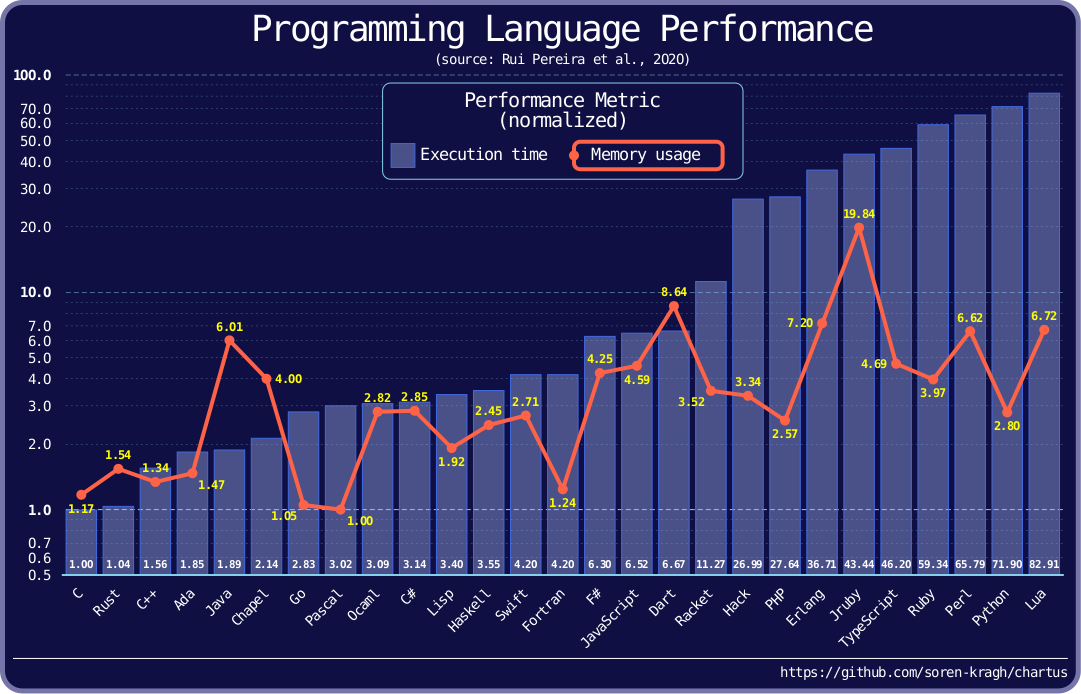
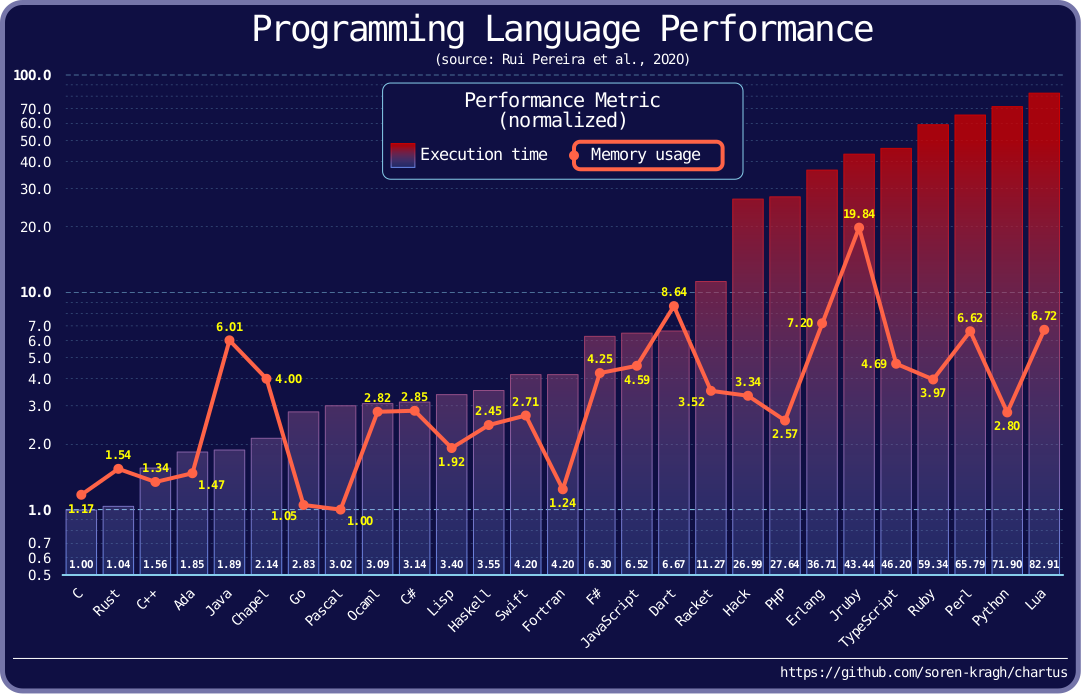
Update documentation

Changed region(s): [[0.0611, 0.121, 1.0, 0.8473], [0.3358, 0.1816, 0.3969, 0.2421]]

diff --git a/README.md b/README.md
@@ -209,10 +209,15 @@ Series.Data :
 # FootnoteSize: 1.0
 # LetterSpacing: 1.8 1.1 0.8
 # ZeroToO: Off
-# GridPadding: 0 12
+# GridPadding: 0 50
 # NewChartInGrid: 0 0 3 0 Center Bottom
 # NewChartInChart: 0 0 Bottom Right
 # ChartPadding: -1 0
+# ChartPaddingX: 12
+# ChartPaddingY: 12
+# ChartFrame: 5 8 0
+# ChartFrameColor: red
+# ChartCanvasColor: white
 # ChartArea: 1000 600
 # ChartBox: On
 # ChartAreaColor: dimgray
@@ -287,9 +292,9 @@ Series.Data :
 # MacroEnd: MyMacro
 # Macro: MyMacro
 #
+# @Layer: Top
 # @PointCoor: Off
 # @Axis: Y1
-# @Layer: Top
 # @LineWidth: Width
 # @LineDash: Dash [Hole]
 # @LineColor: black
@@ -313,6 +318,11 @@ Series.Data :
 # @ArrowWidth: 0
 # @Context: {
 # @Context: }
+#
+# @@Layer: Top
+# @@Axis: 0:Y2
+# @@...
+#
 ```
 
 ## Full Documentation
@@ -329,9 +339,8 @@ Series.Data :
 # The UTF-8 character encoding standard is used.
 #
 # The input file consists of a number of specifiers. Any line starting with a
-# '#' at column 0 is ignored, empty lines are also ignored. The simplest input
-# file consists only of data values, the Series.Data key is implicit in this
-# special case.
+# '#' at column 0 is ignored. The simplest input file consists only of data
+# values, the Series.Data key is implicit in this special case.
 #
 # A specifier takes the form:
 # KEY: VALUE(s)
@@ -342,8 +351,7 @@ Series.Data :
 #   ...
 #
 # The KEY must be unindented and any VALUE(s) on the following lines must be
-# indented, preferably by the same amount (important for text VALUEs). Multiple
-# VALUEs on the same line must be whitespace separated.
+# indented. Multiple VALUEs on the same line must be whitespace separated.
 #
 # Text VALUEs such as titles and labels may span multiple lines, in which case
 # they should be uniformly indented. Please observe the LetterSpacing specifier
@@ -355,12 +363,6 @@ Series.Data :
 # other hand, a textual X-axis has text strings as "values". If just one series
 # is defined which uses textual X-values (e.g. a Bar plot), then the X-axis as a
 # whole becomes textual. See Series.Type for more information.
-#
-# A color can be any of the 147 named SVG colors (google "svg colors") or a
-# hexadecimal RGB value of the form #rrggbb; None means no color. The optional
-# 2nd value (-1.0 to 1.0) specifies by how much to lighten the color (or darken
-# if negative). The third optional value specifies the transparency of the color
-# (0.0 to 1.0).
 #
 # Defining one or more charts generally follows this sequence:
 #
@@ -388,6 +390,67 @@ Series.Data :
 # Everything has been commented out in this file, so it will not do anything if
 # used directly as input to Chartus. Please refer to the built-in inspirational
 # examples (chartus -eN) for actual working input files.
+#
+
+# Color specifiers are used throughout in the following and the syntax is
+# described here. A color can be any of the 147 named SVG colors (google "svg
+# colors") or a hexadecimal RGB value of the form #rrggbb; None means no color.
+# The optional 2nd value (-1.0 to 1.0) specifies by how much to lighten the
+# color (or darken if negative). The third optional value specifies the
+# transparency of the color (0.0 to 1.0).
+#
+# Examples:
+#BoxColor brown
+#BoxColor skyblue 0 0.3
+#BoxColor yellow -0.4 0.7
+#
+
+# Some colors can also be a gradient (mentioned explicitly if so), which is
+# specified as two or more colors each on separate lines; a gradient position
+# (0.0 to 1.0) may optionally be specified in front of each of these colors. An
+# optional extra line consists of four numbers defining a vector direction along
+# which the gradient is applied; vector coordinates 0.0 to 1.0 refer to the
+# boundary of the object. Alternatively, a direction can also be given as e.g.
+# "Left to Right". If no vector direction is given, a default context dependent
+# direction is used. The special gradient position Base may be used for
+# Series.Color, Series.FillColor, and Series.LineColor, which can be used to
+# e.g. color negative and positive bars or areas differently. See examples
+# below.
+#
+# Example (invisible 50% light blue transitioning to fully opaque):
+#Series.Color:
+#   blue 0.5 1
+#   blue 0.5
+#
+# Example (yellow to red, transition starting midway):
+#Series.Color:
+#   0.5 yellow
+#   1.0 red
+# With direction and transient part in a narrow band midway:
+#Series.Color:
+#   0.4 yellow
+#   0.6 red
+#   Top to Bottom
+#
+# Example (red transitioning to less and less transparent along a bottom-left to
+# top-center direction):
+#Series.Color:
+#   red 0 0.8
+#   red 0 0.2
+#   0.0 0.0 0.5 1.2
+# Simpler more readable (but less flexible) syntax:
+#Series.Color:
+#   red 0 0.8
+#   red 0 0.2
+#   Bottom Left to Top
+#
+# Show red gradient for negative numbers (or rather, numbers below the
+# Series.Base) and seagreen gradient for positive numbers:
+#Series.FillColor:
+#   red
+#   Base red 0 0.5
+#   Base seagreen 0 0.5
+#   seagreen
 #
 
 # The HTML tab title to show in the HTML browser. Cannot be multi-line.
@@ -437,6 +500,7 @@ Series.Data :
 #GlobalLegendSize: 1.0
 
 # The background color of the global legend box.
+# Color gradient allowed.
 #GlobalLegendColor: darkseagreen
 
 # Adds a footnote. Footnotes are placed below everything. Multiple footnotes
@@ -476,15 +540,15 @@ FootnotePos: Right
 # chart areas.
 #GridPadding: 12
 
-# Start creation of of new chart; not needed if you only have one chart. When
-# having multiple charts, these are organized in a grid as specified. The first
-# two numbers specify the row and column of the upper left corner, and the
-# second optional two numbers specify the row and column of the lower right
-# corner; the new chart may span multiple grid cells in either direction. If no
-# grid location is given, the new chart is just added below any existing charts
-# in the grid. After the optional grid location follows the optional
-# horizontal/vertical alignment within the allocated grid cell(s); the default
-# alignment will push charts located at a grid edge towards that edge.
+# Start creation of of new chart with NewChartInGrid; not needed if you only
+# have one chart. When having multiple charts, these are organized in a grid as
+# specified. The first two numbers specify the row and column of the upper left
+# corner, and the second optional two numbers specify the row and column of the
+# lower right corner; the new chart may span multiple grid cells in either
+# direction. If no grid location is given, the new chart is just added below any
+# existing charts in the grid. After the optional grid location follows the
+# optional horizontal/vertical alignment within the allocated grid cell(s); the
+# default alignment will push charts located at a grid edge towards that edge.
 #
 # The chart edges of the same row/column will be aligned if possible, empty
 # rows/columns can however be inserted to avoid this, for example:
@@ -527,7 +591,8 @@ FootnotePos: Right
 #
 # When using NewChartInGrid, most state is reset as if a new blank file is
 # started; use macros to easily repeat specifiers shared among multiple charts
-# in the grid.
+# in the grid. Note that the aligment hints only has any effect if the
+# row/column is wider (due to other larger charts) than the new chart.
 #NewChartInGrid: 0 0 1 1 Right Top
 
 # NewChartInChart has the same syntax as NewChartInGrid but with grid collision
@@ -536,6 +601,23 @@ FootnotePos: Right
 # with NewChartInChart, the ChartPadding (see below) defaults to 12 0. Please
 # note that the new chart is just placed on top of whatever previous charts were
 # drawn before, so more manual adjustments than usual might be needed.
+# As for the positional alignment, please note that these are relative to the
+# row / column in which the chart is placed - a larger chart elsewhere in the
+# grid might expand those. You can however use extra rows or columns in the grid
+# to avoid this expansion, e.g.:
+#
+# # Wide chart taking up three columns:
+# NewChartInGrid: 0 0 0 2
+# ChartArea: 1000 400
+#
+# # Not so wide chart placed in column 1:
+# NewChartInGrid: 1 1 1 1
+# ChartArea: 700 400
+#
+# # This embedded chart will be aligned relative to column 1, which is exactly
+# # as wide as the previous not so wide chart:
+# NewChartInChart: Bottom Left
+#
 #NewChartInChart: 0 0 Left Top
 
 # Defines the padding for the current chart, it works somewhat like GridPadding
@@ -553,13 +635,18 @@ FootnotePos: Right
 #ChartPadding: -1 0
 #ChartPadding: 12 0
 
+# Same as ChartPadding, but only for the X (left/right) or Y (bottom/top)
+# direction. This allows finer control especially for embedded charts.
+#ChartPaddingX: 12 0
+#ChartPaddingY: 12 0
+
 # Add a frame around the chart. First number is the frame width; second optional
 # number is the inside padding; third optional number is the corner radius of
 # the frame. When organizing framed charts in a grid you probably want to align
 # relative to the frames rather than the core chart areas, use ChartPadding
 # for this (e.g. ChartPadding: 0).
-# Trick: You can also use an invisible annotation to manually control where the
-# frame is drawn relative to the core chart area.
+# Trick: You can also use an invisible annotation outside the core chart area to
+# manually control where the frame is drawn relative to the core chart area.
 #ChartFrame: 5 8 0
 
 # Specifies the color of the chart frame and the color of the canvas within the
@@ -584,6 +671,7 @@ FootnotePos: Right
 #TextColor: lightyellow
 
 # The background color of legend box and title box (when these are shown).
+# Color gradient allowed.
 #BoxColor: aqua 0 0.5
 
 # Titles are normally placed at the top of the chart.
@@ -679,7 +767,7 @@ SubSubTitle:
 #Axis.X.Pos: Top
 #Axis.Y.Pos: Right
 
-# Define axis ticks.
+# Define axis ticks for numerical axis.
 # Linear scale:
 #   First number is the major tick interval and the second number is an integer
 #   specifying the number of minor sub-intervals per major tick (ignored for
@@ -691,6 +779,7 @@ SubSubTitle:
 #   factors of 100.
 # Tick intervals are determined automatically if no Tick specifier is given
 # (recommended).
+# Tick has no effect on textual X-axis (see TickSpacing).
 #Axis.X.Tick: 10.0 4
 #Axis.Y.Tick: 1.0 0
 
@@ -703,6 +792,7 @@ SubSubTitle:
 # When stacking charts (see NewChartInGrid) sharing the same textual X-axis, a
 # trick to not show the categories for the stacked charts, is to set the
 # TickSpacing start position really high for all but the bottom chart.
+# TickSpacing has no effect on numerical X-axis or Y-axis.
 #Axis.X.TickSpacing: 0 10
 
 # Turn grid lines on/off for major and minor ticks; may be On or Off. Unless
@@ -725,6 +815,7 @@ SubSubTitle:
 # Number format may be None, Fixed, Scientific, or Magnitude. Default is Fixed
 # for linear scale and Magnitude for logarithmic scale. Magnitude means showing
 # e.g. "10k" instead of "10000" etc.
+# For textual X-axis, None will hide the textual categories.
 #Axis.X.NumberFormat: Fixed
 #Axis.Y.NumberFormat: Fixed
 #Axis.Y2.NumberFormat: Magnitude
@@ -955,23 +1046,27 @@ SubSubTitle:
 # subsequent series, or until it is redefined.
 #Series.Lighten: 0
 
-# This value (0.0 to 1.0) specifies the transparency to be used for Bar and Area
-# fill color; it acts as a persistent override modifier to the current Style.
-# This attribute applies to the current series and all subsequent series, or
-# until it is redefined.
+# This value (-1.0 to 1.0) specifies extra transparency to be used for Bar and
+# Area fill color; it acts as a persistent modifier to the current Style. This
+# attribute applies to the current series and all subsequent series, or until it
+# is redefined. Setting a value of -1 removes any transparency entirely.
 #Series.FillTransparency: 0
 
 # This specifies the color; it acts as a one-time modifier to the current Style.
 # The Color attribute applies to the current series only.
+# Color gradient allowed.
 #Series.Color: lightsteelblue
 
 # This specifies the line color; it acts as a one-time modifier to the current
 # Style. The LineColor attribute applies to the current series only.
+# Color gradient allowed.
 #Series.LineColor: darkorange -0.2 0.7
 
 # This specifies the fill color used for bars, areas, marker interiors, etc.; it
 # acts as a one-time modifier to the current Style. The FillColor attribute
 # applies to the current series only.
+# Gradient allowed.
+# Color gradient allowed.
 #Series.FillColor: None
 
 # Enable tagging of data points, that is, showing the data values near the data
@@ -1043,7 +1138,7 @@ Series.Data:
 # Coordinates with point displacement can for example be used to place text near
 # to but displaced from interesting data points. The special coordinates Left,
 # Right, Top, Bottom can be used to indicate the edges of the chart area.
-# Non-XY-coordinates like Radius is always in points.
+# Non-XY-coordinates like Radius are always in points.
 #
 # Note that for annotations, the X- and Y-coordinates always follow the
 # horizontal and vertical orientations respectively. This means that if the
@@ -1064,6 +1159,10 @@ Series.Data:
 # compile, like X1 instead of actual coordinate etc.
 MacroDef: AnnotationDocumentation
 
+# May be Top or Bottom and determines if annotations are placed above or below
+# the plots. Applies to all subsequent annotations.
+@Layer: Top
+
 # Selects if coordinates are in points (pixels) or in chart values; may be
 # On or Off, default if Off. Applies to all subsequent annotations.
 @PointCoor: Off
@@ -1076,16 +1175,13 @@ MacroDef: AnnotationDocumentation
 # X-coordinates and vice versa.
 @Axis: Y1
 
-# May be Top or Bottom and determines if annotations are placed above or below
-# the plots. Applies to all subsequent annotations.
-@Layer: Top
-
 # Width/Dash/Hole in points. Applies to all subsequent annotations.
 @LineWidth: Width
 @LineDash: Dash [Hole]
 
 # See earlier description of color format. Applies to all subsequent
 # annotations.
+# Color gradient allowed.
 @LineColor: black
 @FillColor: None
 @TextColor: black
@@ -1163,12 +1259,12 @@ MacroDef: AnnotationDocumentation
 #
 #-------------------------------------------------------------------------------
 
+# Only the Top layer is allowed for global annotations.
+@@Layer: Top
+
 # For the default axis specifier, the chart number must be specified for global
 # annotations.
 @@Axis: 0:Y2
-
-# Only the Top layer is allowed for global annotations.
-@@Layer: Top
 
 MacroEnd: AnnotationDocumentation
 
